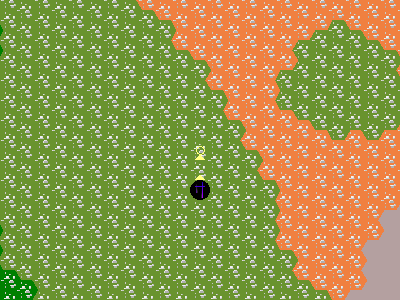
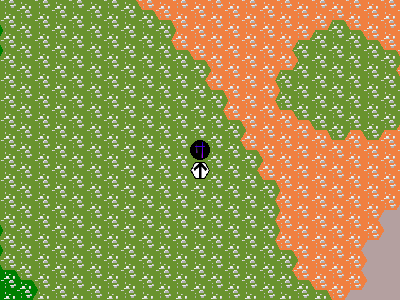
Work changes
More upcoming

Changed region(s): [[0.45, 0.45, 0.54, 0.69]]

diff --git a/src/main/java/botmanager/frostbalance/commands/resource/WorkCommand.kt b/src/main/java/botmanager/frostbalance/commands/resource/WorkCommand.kt
@@ -1,10 +1,7 @@
 package botmanager.frostbalance.commands.resource
 
 import botmanager.frostbalance.Frostbalance
-import botmanager.frostbalance.command.AuthorityLevel
-import botmanager.frostbalance.command.ContextLevel
-import botmanager.frostbalance.command.FrostbalanceGuildCommand
-import botmanager.frostbalance.command.GuildMessageContext
+import botmanager.frostbalance.command.*
 import botmanager.frostbalance.grid.building.WorkManager
 import botmanager.frostbalance.menu.BuildGathererMenu
 
@@ -16,15 +13,24 @@ class WorkCommand(bot: Frostbalance) : FrostbalanceGuildCommand(bot, arrayOf("wo
 
     override fun executeWithGuild(context: GuildMessageContext, vararg params: String) {
 
+        var args = ArgumentStream(params)
+        val workCycles = args.nextInteger()
+
         val character = context.player.character
         val activeGatherer = character.tile.buildingData.activeGatherer() ?: return context.sendResponse("There are no active gatherers here!")
 
         if (activeGatherer.owner != context.player) return context.sendResponse("You don't own this gatherer!")
 
-        return if (WorkManager.singleton.addWorker(activeGatherer, context.player.character)) {
-            context.sendResponse("You are now working on your gatherer (${activeGatherer.deposit}) after ceasing to work at your previous one.")
+        if (workCycles != null) {
+            context.player.character.work(workCycles)
         } else {
-            context.sendResponse("You are now working on your gatherer (${activeGatherer.deposit}).")
+            context.player.character.work(60)
+        }
+
+        return if (WorkManager.singleton.addWorker(activeGatherer, context.player.character)) {
+            context.sendResponse("You are now working on your gatherer (${activeGatherer.deposit})  for the next $workCycles minutes after ceasing to work at your previous one.")
+        } else {
+            context.sendResponse("You are now working on your gatherer (${activeGatherer.deposit}) for the next $workCycles minutes.")
         }
 
     }

diff --git a/src/main/java/botmanager/frostbalance/grid/WorldMap.kt b/src/main/java/botmanager/frostbalance/grid/WorldMap.kt
@@ -27,11 +27,11 @@ class WorldMap(@Transient var gameNetwork: GameNetwork) : Containable<GameNetwor
     var seed: Long = Random().nextLong()
 
     val players: List<PlayerCharacter>
-    get() = {
-        var list: MutableList<PlayerCharacter> = ArrayList()
-        loadedTiles.forEach{ tile -> list.addAll(tile.objects.filterIsInstance(PlayerCharacter::class.java))}
-        list
-    }.invoke()
+    get() {
+        val list: MutableList<PlayerCharacter> = ArrayList()
+        loadedTiles.forEach { tile -> list.addAll(tile.objects.filterIsInstance(PlayerCharacter::class.java)) }
+        return list
+    }
 
     fun getCharacter(player: Player): PlayerCharacter {
         return players.firstOrNull{ character -> character.userId == player.userWrapper.id} ?: let {

diff --git a/src/main/java/botmanager/frostbalance/commands/resource/SearchCommand.kt b/src/main/java/botmanager/frostbalance/commands/resource/SearchCommand.kt
@@ -24,10 +24,10 @@ class SearchCommand(bot: Frostbalance): FrostbalanceGuildCommand(bot, arrayOf(
         if (searches != null) {
             context.player.character.searchTile(searches)
         } else {
-            context.player.character.searchTile(1)
+            context.player.character.searchTile(60)
         }
 
-        context.sendResponse("You are now searching for resources at ${context.player.character.destination.getCoordinates(context.author.userOptions.coordSys)}, and will stop after $searches attempts.")
+        context.sendResponse("You are now searching for resources at ${context.player.character.destination.getCoordinates(context.author.userOptions.coordSys)}, and will stop after $searches minutes.")
 
     }
 

diff --git a/src/main/java/botmanager/frostbalance/GameNetwork.kt b/src/main/java/botmanager/frostbalance/GameNetwork.kt
@@ -28,8 +28,8 @@ class GameNetwork(@Transient var bot: Frostbalance, var id: String) : Containabl
             override fun run() {
                 println("Doing turn $turn")
                 worldMap.loadedTiles.forEach {
-                    val buildingChanges = it.buildingData.buildings.any { building -> building.doTurn(turn) }
                     val mobChanges = it.mobs.any { mob -> mob.doTurn(turn) }
+                    val buildingChanges = it.buildingData.buildings.any { building -> building.doTurn(turn) }
                     if (buildingChanges || mobChanges) { //something changed on the tile
                         //TODO update observers of this tile
                     }

diff --git a/src/main/java/botmanager/frostbalance/grid/PlayerCharacter.java b/src/main/java/botmanager/frostbalance/grid/PlayerCharacter.java
@@ -8,6 +8,7 @@ import botmanager.frostbalance.action.ActionQueue;
 import botmanager.frostbalance.action.QueueStep;
 import botmanager.frostbalance.action.actions.Action;
 import botmanager.frostbalance.action.actions.SearchAction;
+import botmanager.frostbalance.action.actions.WorkAction;
 import botmanager.frostbalance.action.routine.MoveToRoutine;
 import botmanager.frostbalance.action.routine.RepeatRoutine;
 import botmanager.frostbalance.checks.FrostbalanceException;
@@ -137,6 +138,10 @@ public class PlayerCharacter extends Mobile {
         getActionQueue().add(new RepeatRoutine<>(new SearchAction(this), searches));
     }
 
+    public void work(int workCycles) {
+        getActionQueue().add(new RepeatRoutine<>(new WorkAction(this), workCycles));
+    }
+
     public Hex getDestination() {
         List<Hex> waypoints = getActionQueue().simulation().waypoints(false);
         return waypoints.get(waypoints.size() - 1); //last waypoint
@@ -169,6 +174,7 @@ public class PlayerCharacter extends Mobile {
     public String getName() {
         return getPlayer().getName();
     }
+
 
     @Override
     public boolean turnAction() {

diff --git a/src/main/java/botmanager/frostbalance/grid/building/WorkManager.java b/src/main/java/botmanager/frostbalance/grid/building/WorkManager.java
@@ -1,6 +1,7 @@
 package botmanager.frostbalance.grid.building;
 
 import botmanager.frostbalance.MapToCollection;
+import botmanager.frostbalance.action.actions.WorkAction;
 import botmanager.frostbalance.grid.PlayerCharacter;
 import org.jetbrains.annotations.NotNull;
 
@@ -90,12 +91,14 @@ public class WorkManager {
                 if (!worker.getTile().equals(key.getTile())) { //invalid!
                     System.err.println("Removing worker-building desynchronization");
                     removeWorker(key, worker);
-                }
-                if (workingSomewhere.contains(worker)) {
+                } else if (workingSomewhere.contains(worker)) {
                     System.err.println("Removing worker multi-task");
                     removeWorker(key, worker);
+                } else if (!(worker.getActionQueue().peek() instanceof WorkAction)) {
+                    removeWorker(key, worker);
+                } else { //the worker works
+                    workingSomewhere.add(worker);
                 }
-                workingSomewhere.add(worker);
             }
         }
 

diff --git a/src/main/java/botmanager/frostbalance/action/actions/WorkAction.java b/src/main/java/botmanager/frostbalance/action/actions/WorkAction.java
@@ -1,0 +1,29 @@
+package botmanager.frostbalance.action.actions;
+
+import botmanager.frostbalance.grid.PlayerCharacter;
+import botmanager.frostbalance.grid.building.Gatherer;
+import botmanager.frostbalance.grid.building.WorkManager;
+
+public class WorkAction extends Action {
+
+    public WorkAction(PlayerCharacter character) {
+        super(character);
+    }
+
+    @Override
+    public int moveCost() {
+        return 1;
+    }
+
+    @Override
+    public void doAction() {
+
+        Gatherer gatherer = queue.getCharacter().getTile().getBuildingData().activeGatherer();
+
+        if (gatherer != null) {
+            WorkManager.singleton.addWorker(gatherer, queue.getCharacter());
+        }
+
+    }
+
+}
